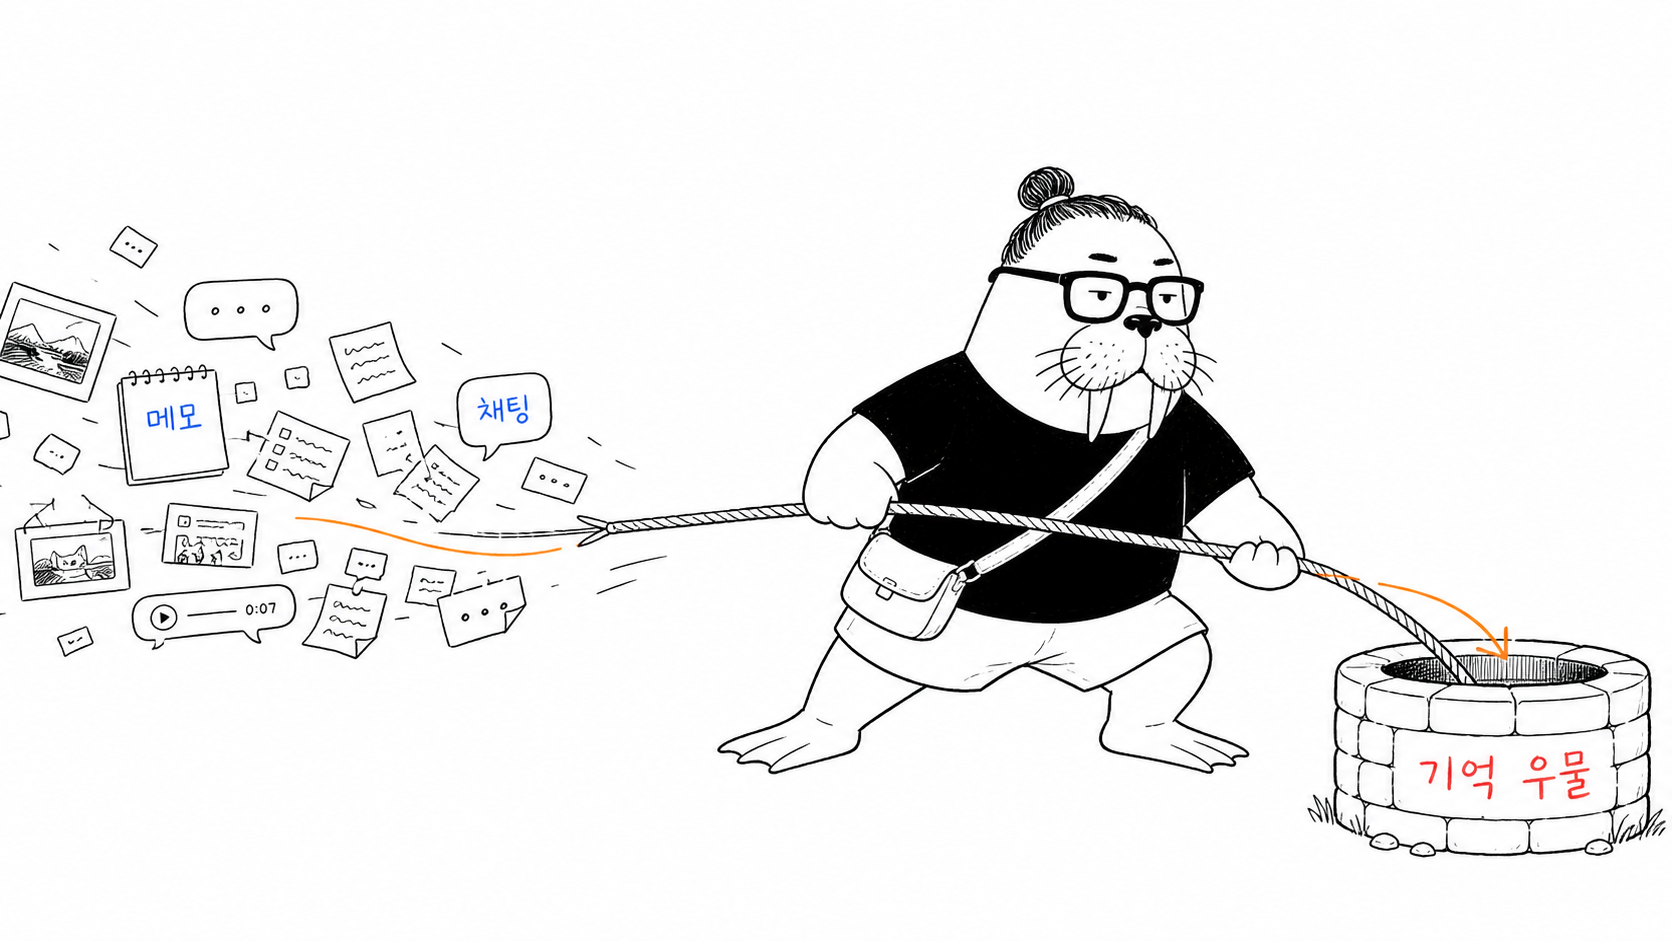
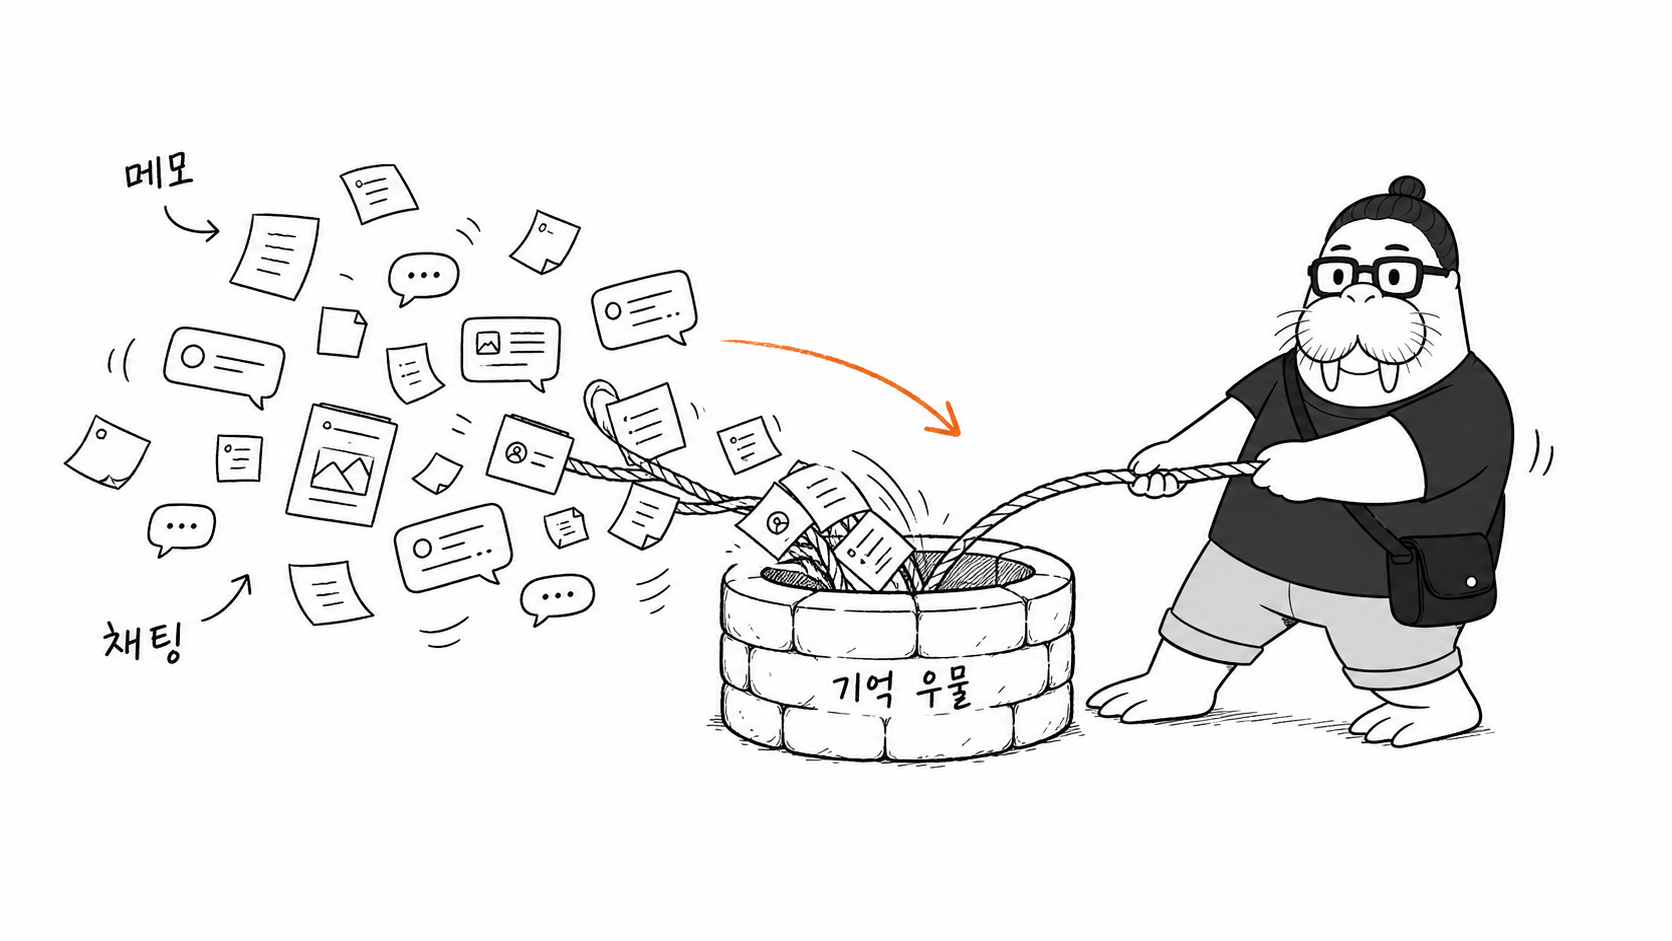
dkdk-illustrations: switch identity reference to pure ink B/W sheet; update memory-well example

diff --git a/dkdk-illustrations/references/prompt-template.md b/dkdk-illustrations/references/prompt-template.md
@@ -2,7 +2,7 @@
 
 한 장씩 개별 생성한다. 본문 내용에 맞게 변수를 교체하고, 여러 장을 한 이미지에 합치지 않는다.
 
-브리프 파일(`./brief/<slug>-NN.md`)에 아래 내용을 그대로 채워 넣고, 생성 시 모델시트(`assets/dkdk-board-bw.png`)를 `-i`로 반드시 첨부한다 (SKILL.md 3단계).
+브리프 파일(`./brief/<slug>-NN.md`)에 아래 내용을 그대로 채워 넣고, 생성 시 모델시트(`assets/dkdk-board-ink-bw.png`)를 `-i`로 반드시 첨부한다 (SKILL.md 3단계).
 
 ```text
 Generate one standalone 16:9 horizontal Korean article illustration.
